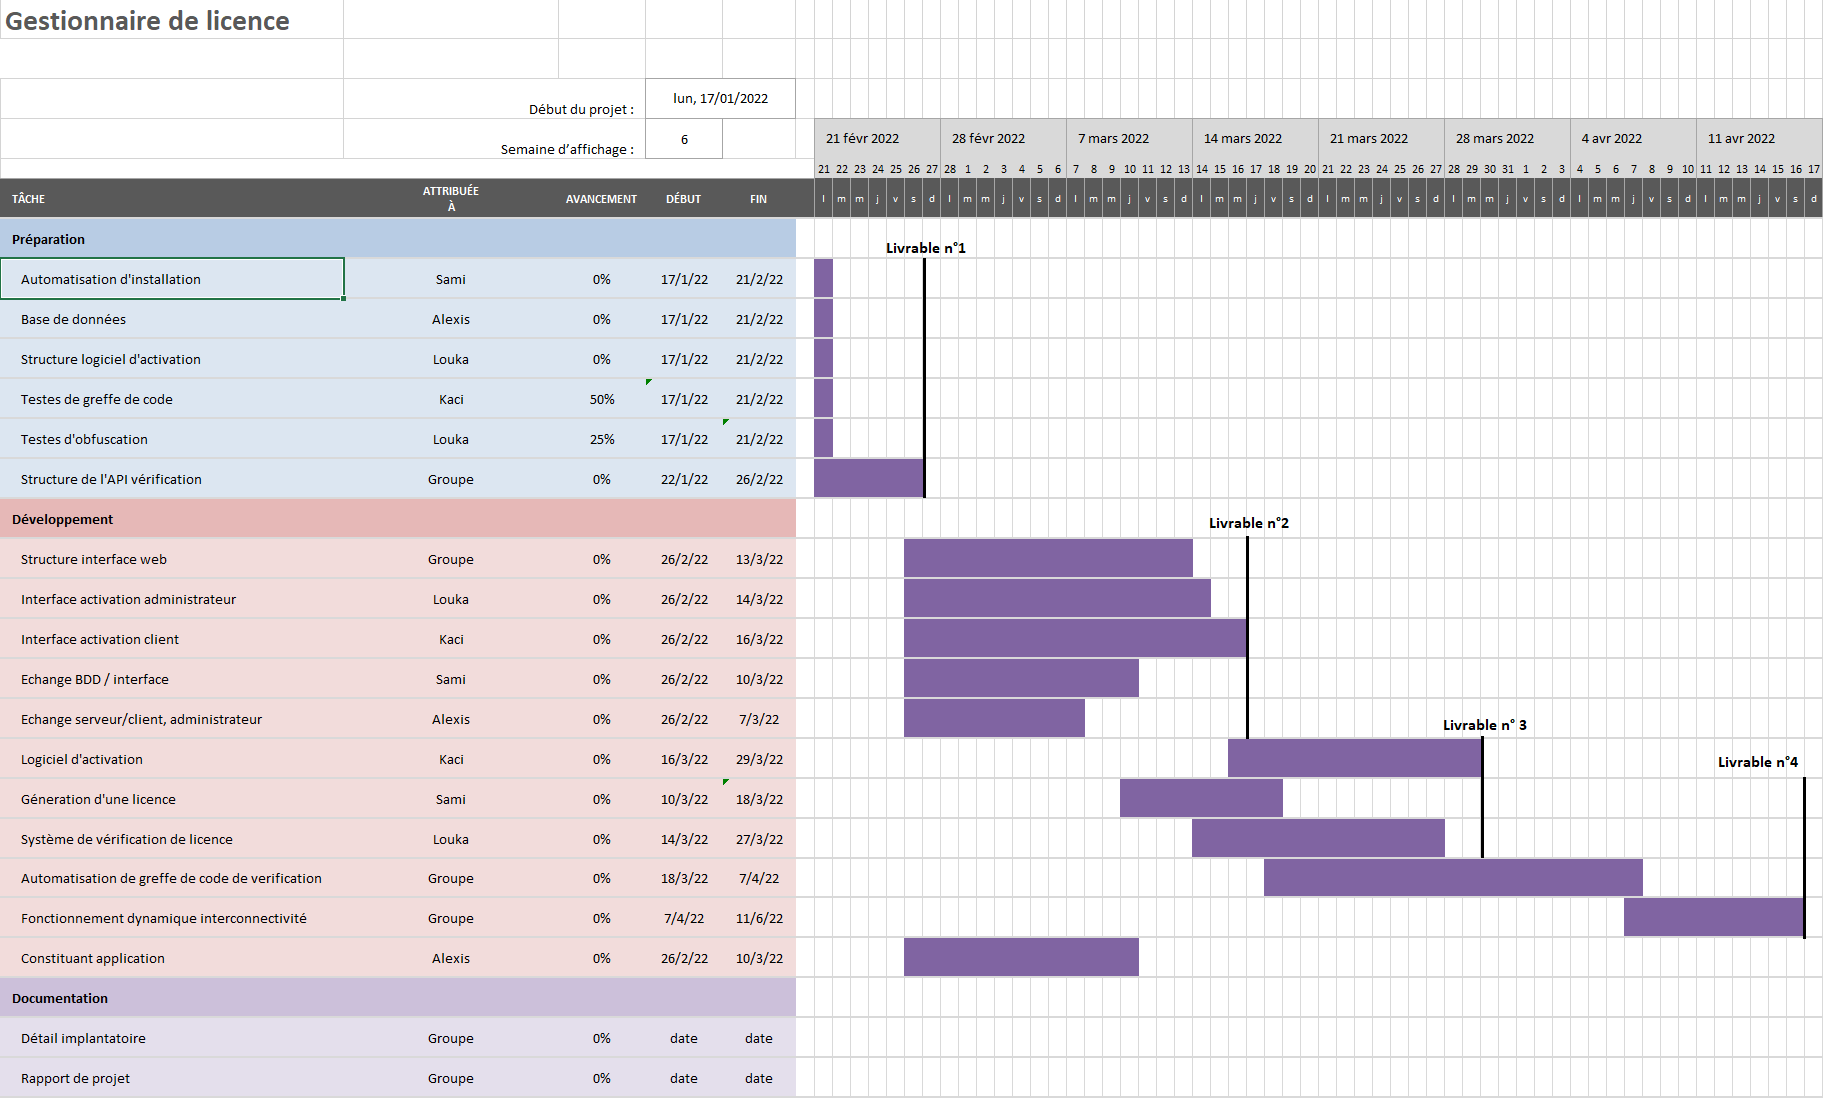
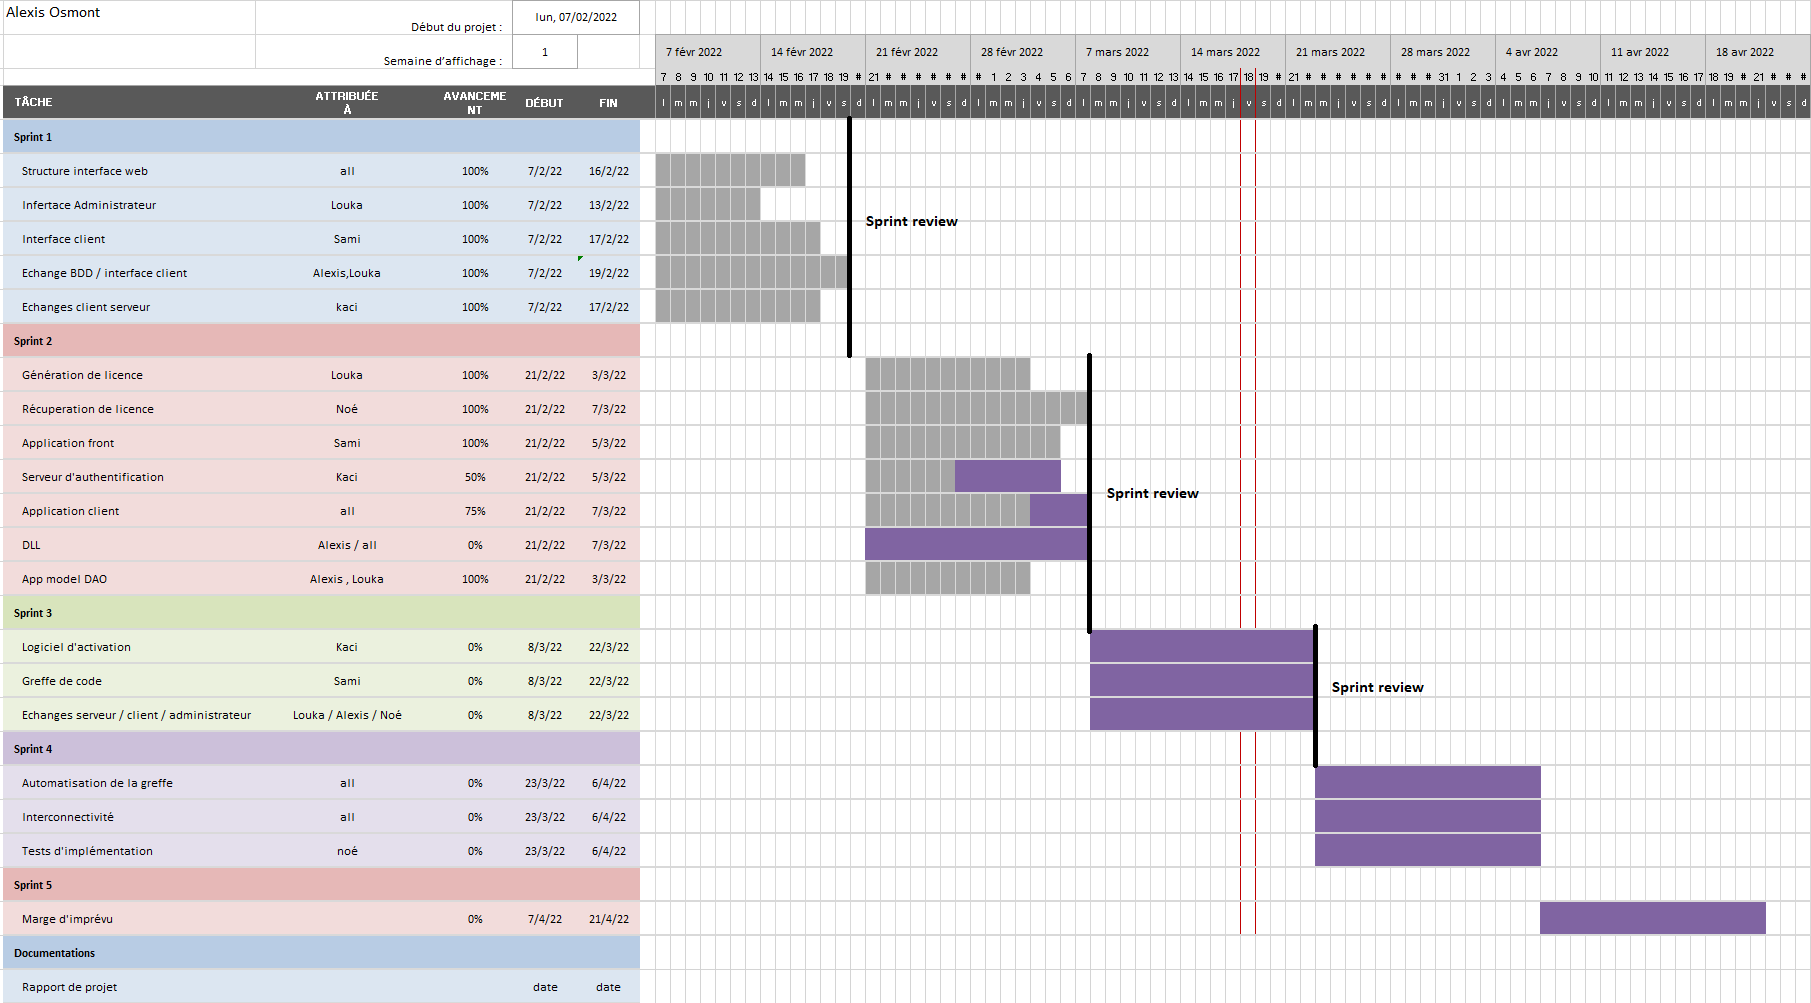
maj pdd gantt ...

diff --git a/docs/PDD/main/main.tex b/docs/PDD/main/main.tex
@@ -55,6 +55,8 @@ Pour organiser ce projet et travailler efficacement, nous avons affecté un rôl
 chacun. Néanmoins, tous les acteurs de ce projet auront les rôles de développeur et de
 rédacteur. Voici notre organigramme :\newline
 
+\section{Rôles des intervenants}
+
 \begin{figure}[!h]
     \centering
     \includegraphics[width=15cm]{schema_role_projet.png}
@@ -88,6 +90,16 @@ rédacteur. Voici notre organigramme :\newline
 		\item Assure le suivi fonctionnel.\newline
 	\end{itemize}
 \end{itemize}
+
+\section{Ajustement de l'organisation}
+
+Le projet se déroulant au cours de l'année scolaire l'organisation doit s'adapter aux
+contrainte de temps de travail déjà fourni ainsi qu'aux modifications d'emploie
+du temps de chacun.\newline
+
+Au cours du sprint 4 nous allons donc au vus des disponibilités de tous, 
+faire des daily working a fin de résoudre les problèmes de communication 
+et de blocage pour certains.
 
 \chapter{Organigramme des tâches}
 L'organigramme des tâches présent ci-dessous n'est qu'une capture du momment. En effet celui-ci sera mis à jour en fonction 
@@ -170,10 +182,11 @@ Le diagramme de Gantt est disponible en annexe.
 
 \section{Livrables}
 \begin{itemize}
-	\item Livrable n°1 : Démonstration
-	\item Livrable n°2 : Activation de licence
-	\item Livrable n°3 : Génération et vérification de licence
-	\item Livrable n°4 : Projet abouti
+	\item Livrable n°1 : Démonstration et interfaces
+	\item Livrable n°2 : Génération et vérification de licence
+	\item Livrable n°3 : Activation de licence
+	\item Livrable n°4 : Greffe de code aboutie
+	\item Livrable n°5 : Projet final
 \end{itemize}
 
 \chapter{Procédés de gestion}

diff --git a/docs/PDD/PDD.tex b/docs/PDD/PDD.tex
@@ -113,6 +113,8 @@
 		\hline
 			1.2 & 13/01/2022 &  Mise à jour des tâches\\
 		\hline
+			1.3 & 17/03/2022 &  Mise à jour Gantt et autres\\
+		\hline
 	\end{tabular}
 \end{table}
 
